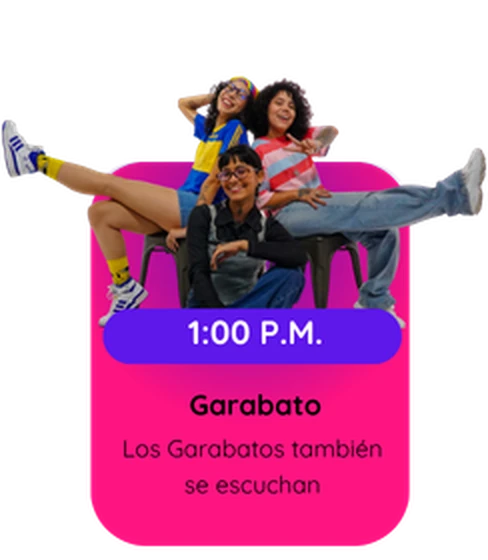
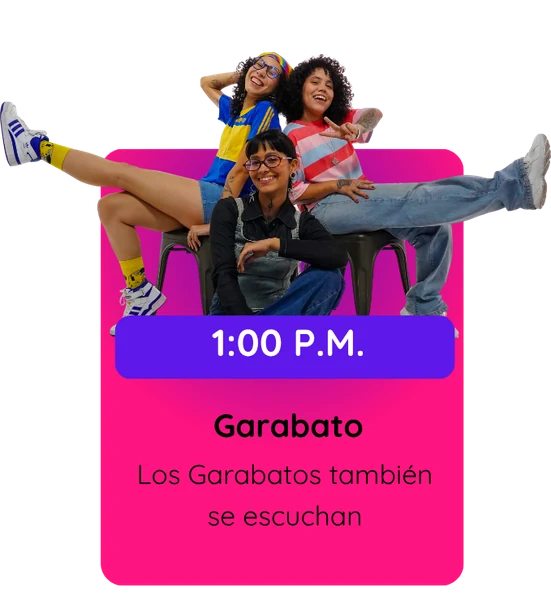
Web: oradores con la imagen más nítida y su separación original; charlas y asistencia debajo de la tienda
Claude-Session: https://claude.ai/code/session_018Ub7mahe51HV8HNSffgSRf

Changed region(s): [[0.0, 0.0911, 1.0, 1.0], [0.3689, 0.85, 0.6762, 0.8804]]

diff --git a/index.html b/index.html
@@ -17,7 +17,7 @@
 <link rel="icon" type="image/png" href="assets/img/logo-rcf-64.png">
 <link rel="preload" href="assets/fonts/quicksand.woff" as="font" type="font/woff" crossorigin>
 <link rel="preload" href="assets/fonts/poppins-700.woff" as="font" type="font/woff" crossorigin>
-<link rel="stylesheet" href="assets/css/rcf.css?v=20261111a">
+<link rel="stylesheet" href="assets/css/rcf.css?v=20261111b">
 </head>
 <body>
 <a class="skip" href="#main">Saltar al contenido</a>
@@ -78,6 +78,45 @@
 </div></section>
 <section class="sec reto-sec" aria-label="Reto de la semana" data-solo-post hidden><div class="wrap"><div class="reto-ya" data-reto-web hidden></div></div></section>
 <section class="sec" aria-label="Tienda" data-hasta="2026-12-06T00:00:00-04:00"><div class="wrap"><div class="pgrid" data-products></div></div></section>
+<section class="sec charlas" id="charlas" data-hasta="2026-12-06T00:00:00-04:00"><div class="wrap">
+  <span class="pill p-yellow">5 de diciembre · Auditorio naranja de FACES-UCV</span>
+  <h2>Charlas con propósito</h2>
+  <p class="lead">La intención de nuestras charlas es unir fuerzas en apoyo a nuestra comunidad universitaria y promover el talento&nbsp;creativo.</p>
+  <div class="ch-or">
+    <img class="ch-all" src="assets/img/charlas-oradores.webp" width="1500" height="616" loading="lazy" alt="">
+    <a style="--l:0%;--w:24.9%" href="https://www.instagram.com/hamktrazos/" target="_blank" rel="noopener" aria-label="HamkTrazos: «Vida en trazos», 11:00 a. m. Abre su Instagram en otra pestaña"><img src="assets/img/charla-hamktrazos.webp?v=2" width="363" height="600" loading="lazy" alt="HamkTrazos, 11:00 a. m.: Vida en trazos"><span>@hamktrazos</span></a>
+    <a style="--l:33.4%;--w:24.9%" href="https://www.instagram.com/olivarescfc/" target="_blank" rel="noopener" aria-label="Oscar Olivares: «Cómo vivir del arte en Venezuela», 12:00 p. m. Abre su Instagram en otra pestaña"><img src="assets/img/charla-olivares.webp?v=2" width="363" height="600" loading="lazy" alt="Oscar Olivares, 12:00 p. m.: Cómo vivir del arte en Venezuela"><span>@olivarescfc</span></a>
+    <a style="--l:62.3%;--w:37.7%" href="https://www.instagram.com/garabatoenvivo/" target="_blank" rel="noopener" aria-label="Garabato: «Los Garabatos también se escuchan», 1:00 p. m. Abre su Instagram en otra pestaña"><img src="assets/img/charla-garabato.webp?v=2" width="551" height="600" loading="lazy" alt="Garabato, 1:00 p. m.: Los Garabatos también se escuchan"><span>@garabatoenvivo</span></a>
+  </div>
+  <h3>Productos aceptados</h3>
+  <div class="ch-prod">
+    <div><img src="assets/img/charlas-insumos.webp" width="859" height="240" loading="lazy" alt="Juguetes, alimentos no perecederos y productos de higiene personal"><b>Insumos de primera necesidad</b><p>Para el Centro de Acopio&nbsp;UCV.</p></div>
+    <div><img src="assets/img/charlas-arte.webp" width="859" height="197" loading="lazy" alt="Marcadores, blocs, lápices, pinturas, pinceles, pega, cinta, cartulinas y tijeras"><b>Material de arte</b><p>Todo el material de arte recolectado se utilizará para seguir impulsando nuestros eventos&nbsp;creativos.</p></div>
+  </div>
+  <p class="ch-nota"><b>Donación individual</b> (únicamente productos&nbsp;nuevos).<br>Los menores de 12 años no requieren presentar&nbsp;donación.</p>
+</div></section>
+<section class="sec" id="asistencia" data-hasta="2026-12-06T00:00:00-04:00" style="background:var(--yellowsoft,#FFF6CC);border-top:3px solid var(--ink)"><div class="wrap lead-wrap">
+  <div class="txt"><span class="pill p-ink">Entrada gratuita</span><h2>Confirma tu asistencia</h2>
+    <p class="lead">El festival es libre y no necesitas registrarte para entrar. Si nos dices que vienes, nos ayudas a preparar el espacio para todos. Te toma 30&nbsp;segundos.</p>
+    <p class="lead" style="font-size:15px"><b>Sábado 5 de diciembre</b>, de 10:00 a. m. a 4:00&nbsp;p.&nbsp;m.<br>FACES-UCV, Caracas</p></div>
+  <form class="lform card" data-form="asistencia" novalidate>
+    <label class="fl" for="as-nombre">Tu nombre<input id="as-nombre" name="nombre" type="text" autocomplete="name" maxlength="80" placeholder="Nombre y apellido" required></label>
+    <label class="fl" for="as-correo">Tu correo<input id="as-correo" name="correo" type="email" autocomplete="email" placeholder="tucorreo@gmail.com" required></label>
+    <label class="fl" for="as-personas">¿Cuántas personas vienen, contándote?<select id="as-personas" name="personas" required><option value="1">Solo yo</option><option value="2">2</option><option value="3">3</option><option value="4">4</option><option value="5">5 o más</option></select></label>
+    <fieldset class="chips-in"><legend>¿A qué vienes? (puedes marcar varias)</legend>
+      <label><input type="checkbox" name="vienes" value="Concurso"> Concurso</label><label><input type="checkbox" name="vienes" value="Bazar"> Bazar</label><label><input type="checkbox" name="vienes" value="Charlas"> Charlas</label><label><input type="checkbox" data-todas="vienes"> Todas las anteriores</label></fieldset>
+    <fieldset class="chips-in"><legend>¿Viene alguien menor de 18 años?</legend>
+      <label><input type="radio" name="menores" value="No" checked> No</label><label><input type="radio" name="menores" value="Sí"> Sí</label></fieldset>
+    <label class="fl" for="as-enterado">¿Cómo te enteraste?<select id="as-enterado" name="enterado" required><option value="">Elige una opción</option><option>Instagram</option><option>TikTok</option><option>Canal de WhatsApp</option><option>Un amigo o familiar</option><option>Un patrocinante</option><option>Otro</option></select></label>
+    <label class="check"><input type="checkbox" name="avisos" value="Sí"> <span>Quiero que me avisen del próximo Reto Creativo Fest.</span></label>
+    <label class="check"><input type="checkbox" name="consentimiento" value="Sí" required> <span>Acepto que guarden estos datos para organizar el festival. Si soy menor de 18 años, tengo el permiso de mi representante. <a href="privacidad.html">Privacidad</a></span></label>
+    <input class="hp" type="text" name="website" tabindex="-1" autocomplete="off" aria-hidden="true">
+    <p class="ferr" role="alert" hidden></p>
+    <button class="btn b-ink y" type="submit">Voy a ir</button>
+    <div class="fok" role="status" hidden><p style="margin:0 0 10px"><b>¡Te esperamos el sábado 5 de diciembre!</b> Si cambia algo, te escribimos.</p>
+      <div class="ctas"><a class="btn b-ink" href="https://calendar.google.com/calendar/render?action=TEMPLATE&amp;text=Reto%20Creativo%20Fest%202026&amp;dates=20261205T140000Z%2F20261205T200000Z&amp;location=FACES-UCV%2C%20Caracas&amp;details=Festival%20de%20ilustraci%C3%B3n%2C%20entrada%20gratuita.%20retocreativofest.com" target="_blank" rel="noopener">Agregar a mi calendario</a><a class="btn b-cyan" style="background:var(--cyansoft);border-color:var(--ink)" data-link="canal" href="#">Unirme al canal</a></div></div>
+  </form>
+</div></section>
 <section class="sec canal-sec" aria-labelledby="canal-h" data-desde="2026-12-06T00:00:00-04:00" hidden><div class="wrap canal-card">
   <div class="txt"><span class="pill p-white">Canal de WhatsApp</span><h2 id="canal-h">Entérate primero de todo</h2>
     <p class="lead">El reto de cada semana, los ganadores, las fechas del próximo Reto Creativo Fest y los descuentos de nuestras marcas aliadas llegan primero al canal. Es gratis y nadie ve tu número.</p>
@@ -121,44 +160,6 @@
     <div><svg viewBox="0 0 100 100" aria-hidden="true"><path d="M50 4 C54 34 66 46 96 50 C66 54 54 66 50 96 C46 66 34 54 4 50 C34 46 46 34 50 4Z" fill="#F0479B" stroke="#0B0B0F" stroke-width="6" stroke-linejoin="round"/></svg><h3>Premiación</h3><p>A las 3:00 p.m: ganadores del concurso y del #RetoMenteMilenial.</p></div>
   </div>
   <div class="sched-wrap" role="region" aria-label="Programa del sábado 5 de diciembre" tabindex="0"><div class="sched"><span></span><div class="hd"><b>Auditorio naranja</b>Charlas y premiación</div><div class="hd"><b>Sótano de FACES</b>Concurso de dibujo</div><div class="hd"><b>Planta baja de FACES</b>Bazar y premiación secundaria</div><div class="cell c-time">9:00 a.m<br>9:50 a.m</div><div class="cell c-off"><span><b>Solo participantes</b><small>El público entra desde las 10:00 a.m</small></span></div><div class="cell c-p"><span><b>Check-in</b>Participantes del concurso</span></div><div class="cell c-off"><span><b>Montaje del bazar</b><small>Abre a las 10:00 a.m</small></span></div><div class="cell c-time">10:00 a.m<br>10:45 a.m</div><div class="cell c-y"><span><b>Bienvenida</b><small>Apertura de puertas al público</small></span></div><div class="cell c-p"><span><b>Primer lote</b>12 personas</span></div><div class="cell c-c" style="grid-column:4;grid-row:3 / span 5"><span><b>Bazar de emprendimientos y Ruta Creativa</b></span></div><div class="cell c-time">11:00 a.m<br>11:45 a.m</div><div class="cell c-y"><span><b>Primera Charla</b>@hamktrazos</span></div><div class="cell c-p"><span><b>Segundo lote</b>12 personas</span></div><div class="cell c-time">12:00 p.m<br>12:45 p.m</div><div class="cell c-y"><span><b>Segunda Charla</b>@olivarescfc</span></div><div class="cell c-p"><span><b>Tercer lote</b>12 personas</span></div><div class="cell c-time">1:00 p.m<br>1:45 p.m</div><div class="cell c-y"><span><b>Tercera Charla</b>@garabatoenvivo</span></div><div class="cell c-p" style="grid-column:3;grid-row:6 / span 2"><span><b>Deliberación del jurado</b><small>1:00 p.m a 2:50 p.m</small></span></div><div class="cell c-time">2:00 p.m<br>2:50 p.m</div><div class="cell c-y" style="grid-column:2"><span><b>Descanso</b></span></div><div class="cell c-time">3:00 p.m<br>3:45 p.m</div><div class="cell c-y"><span><b>Premiación principal</b><small>#RetoMenteMilenial<br>(3:00 p.m)</small></span></div><div class="cell c-p"><span><b>Premiación en el auditorio</b></span></div><div class="cell c-c"><span><b>Premiación secundaria</b><small>(3:40 p.m)</small></span></div><div class="cell c-time" style="min-height:56px">4:00 p.m</div><div class="cell c-h" style="grid-column:2 / span 3;min-height:56px">CIERRE DEL EVENTO</div></div></div>
-</div></section>
-<section class="sec charlas" id="charlas" data-hasta="2026-12-06T00:00:00-04:00"><div class="wrap">
-  <span class="pill p-yellow">5 de diciembre · Auditorio naranja de FACES-UCV</span>
-  <h2>Charlas con propósito</h2>
-  <p class="lead">La intención de nuestras charlas es unir fuerzas en apoyo a nuestra comunidad universitaria y promover el talento&nbsp;creativo.</p>
-  <div class="ch-or">
-    <a style="--w:161" href="https://www.instagram.com/hamktrazos/" target="_blank" rel="noopener" aria-label="HamkTrazos: «Vida en trazos», 11:00 a. m. Abre su Instagram en otra pestaña"><img src="assets/img/charla-hamktrazos.webp" width="322" height="560" loading="lazy" alt="HamkTrazos, 11:00 a. m.: Vida en trazos"><span>@hamktrazos</span></a>
-    <a style="--w:162" href="https://www.instagram.com/olivarescfc/" target="_blank" rel="noopener" aria-label="Oscar Olivares: «Cómo vivir del arte en Venezuela», 12:00 p. m. Abre su Instagram en otra pestaña"><img src="assets/img/charla-olivares.webp" width="324" height="560" loading="lazy" alt="Oscar Olivares, 12:00 p. m.: Cómo vivir del arte en Venezuela"><span>@olivarescfc</span></a>
-    <a style="--w:244" href="https://www.instagram.com/garabatoenvivo/" target="_blank" rel="noopener" aria-label="Garabato: «Los Garabatos también se escuchan», 1:00 p. m. Abre su Instagram en otra pestaña"><img src="assets/img/charla-garabato.webp" width="488" height="560" loading="lazy" alt="Garabato, 1:00 p. m.: Los Garabatos también se escuchan"><span>@garabatoenvivo</span></a>
-  </div>
-  <h3>Productos aceptados</h3>
-  <div class="ch-prod">
-    <div><img src="assets/img/charlas-insumos.webp" width="859" height="240" loading="lazy" alt="Juguetes, alimentos no perecederos y productos de higiene personal"><b>Insumos de primera necesidad</b><p>Para el Centro de Acopio&nbsp;UCV.</p></div>
-    <div><img src="assets/img/charlas-arte.webp" width="859" height="197" loading="lazy" alt="Marcadores, blocs, lápices, pinturas, pinceles, pega, cinta, cartulinas y tijeras"><b>Material de arte</b><p>Todo el material de arte recolectado se utilizará para seguir impulsando nuestros eventos&nbsp;creativos.</p></div>
-  </div>
-  <p class="ch-nota"><b>Donación individual</b> (únicamente productos&nbsp;nuevos).<br>Los menores de 12 años no requieren presentar&nbsp;donación.</p>
-</div></section>
-<section class="sec" id="asistencia" data-hasta="2026-12-06T00:00:00-04:00" style="background:var(--yellowsoft,#FFF6CC);border-top:3px solid var(--ink)"><div class="wrap lead-wrap">
-  <div class="txt"><span class="pill p-ink">Entrada gratuita</span><h2>Confirma tu asistencia</h2>
-    <p class="lead">El festival es libre y no necesitas registrarte para entrar. Si nos dices que vienes, nos ayudas a preparar el espacio para todos. Te toma 30&nbsp;segundos.</p>
-    <p class="lead" style="font-size:15px"><b>Sábado 5 de diciembre</b>, de 10:00 a. m. a 4:00&nbsp;p.&nbsp;m.<br>FACES-UCV, Caracas</p></div>
-  <form class="lform card" data-form="asistencia" novalidate>
-    <label class="fl" for="as-nombre">Tu nombre<input id="as-nombre" name="nombre" type="text" autocomplete="name" maxlength="80" placeholder="Nombre y apellido" required></label>
-    <label class="fl" for="as-correo">Tu correo<input id="as-correo" name="correo" type="email" autocomplete="email" placeholder="tucorreo@gmail.com" required></label>
-    <label class="fl" for="as-personas">¿Cuántas personas vienen, contándote?<select id="as-personas" name="personas" required><option value="1">Solo yo</option><option value="2">2</option><option value="3">3</option><option value="4">4</option><option value="5">5 o más</option></select></label>
-    <fieldset class="chips-in"><legend>¿A qué vienes? (puedes marcar varias)</legend>
-      <label><input type="checkbox" name="vienes" value="Concurso"> Concurso</label><label><input type="checkbox" name="vienes" value="Bazar"> Bazar</label><label><input type="checkbox" name="vienes" value="Charlas"> Charlas</label><label><input type="checkbox" data-todas="vienes"> Todas las anteriores</label></fieldset>
-    <fieldset class="chips-in"><legend>¿Viene alguien menor de 18 años?</legend>
-      <label><input type="radio" name="menores" value="No" checked> No</label><label><input type="radio" name="menores" value="Sí"> Sí</label></fieldset>
-    <label class="fl" for="as-enterado">¿Cómo te enteraste?<select id="as-enterado" name="enterado" required><option value="">Elige una opción</option><option>Instagram</option><option>TikTok</option><option>Canal de WhatsApp</option><option>Un amigo o familiar</option><option>Un patrocinante</option><option>Otro</option></select></label>
-    <label class="check"><input type="checkbox" name="avisos" value="Sí"> <span>Quiero que me avisen del próximo Reto Creativo Fest.</span></label>
-    <label class="check"><input type="checkbox" name="consentimiento" value="Sí" required> <span>Acepto que guarden estos datos para organizar el festival. Si soy menor de 18 años, tengo el permiso de mi representante. <a href="privacidad.html">Privacidad</a></span></label>
-    <input class="hp" type="text" name="website" tabindex="-1" autocomplete="off" aria-hidden="true">
-    <p class="ferr" role="alert" hidden></p>
-    <button class="btn b-ink y" type="submit">Voy a ir</button>
-    <div class="fok" role="status" hidden><p style="margin:0 0 10px"><b>¡Te esperamos el sábado 5 de diciembre!</b> Si cambia algo, te escribimos.</p>
-      <div class="ctas"><a class="btn b-ink" href="https://calendar.google.com/calendar/render?action=TEMPLATE&amp;text=Reto%20Creativo%20Fest%202026&amp;dates=20261205T140000Z%2F20261205T200000Z&amp;location=FACES-UCV%2C%20Caracas&amp;details=Festival%20de%20ilustraci%C3%B3n%2C%20entrada%20gratuita.%20retocreativofest.com" target="_blank" rel="noopener">Agregar a mi calendario</a><a class="btn b-cyan" style="background:var(--cyansoft);border-color:var(--ink)" data-link="canal" href="#">Unirme al canal</a></div></div>
-  </form>
 </div></section>
 <section class="sec patro" id="patrocinantes" aria-labelledby="patro-h" data-hasta="2026-12-06T00:00:00-04:00"><div class="wrap">
   <h2 class="h-sec" id="patro-h"><span data-hasta="2026-12-06T00:00:00-04:00">Patrocinantes de esta edición</span><span data-desde="2026-12-06T00:00:00-04:00" hidden>Gracias a los patrocinantes de la 4.ª edición</span></h2>

diff --git a/assets/css/rcf.css b/assets/css/rcf.css
@@ -652,11 +652,13 @@ html,body{overflow-x:clip}
 .charlas h2{color:var(--yellow);font-size:clamp(32px,4.4vw,54px);margin:0}
 .charlas h3{color:var(--yellow);font-size:clamp(24px,3vw,34px);margin:18px 0 0}
 .charlas .lead{max-width:640px;margin:0;text-wrap:balance}
-.ch-or{display:flex;justify-content:center;align-items:flex-start;gap:clamp(12px,3vw,36px);width:100%;max-width:820px}
-.ch-or a{flex:var(--w) 1 0;min-width:0;display:grid;gap:10px;justify-items:center;color:var(--white);text-decoration:none;font-weight:700;font-size:15px;transition:transform .15s}
-.ch-or a:hover,.ch-or a:focus-visible{transform:translateY(-4px)}
+.ch-or{position:relative;width:100%;max-width:900px;margin-bottom:34px}
+.ch-or .ch-all{width:100%;height:auto;display:block}
+.ch-or a{position:absolute;top:0;height:100%;left:var(--l);width:var(--w);color:var(--white);text-decoration:none;font-weight:700;font-size:15px}
+.ch-or a img{display:none}
+.ch-or a span{position:absolute;top:100%;left:0;right:0;padding-top:10px;text-align:center}
+.ch-or a:nth-of-type(3) span{left:2%}
 .ch-or a:hover span,.ch-or a:focus-visible span{color:var(--yellow);text-decoration:underline}
-.ch-or img{width:100%;height:auto;display:block}
 .ch-prod{display:grid;grid-template-columns:repeat(2,minmax(0,1fr));gap:20px;width:100%;max-width:900px}
 .ch-prod div{border:2px solid rgba(255,255,255,.25);border-radius:var(--r);padding:22px 20px;display:grid;gap:8px;justify-items:center;align-content:start}
 .ch-prod img{width:100%;max-width:380px;height:auto;margin-bottom:6px}
@@ -664,9 +666,10 @@ html,body{overflow-x:clip}
 .ch-prod p{margin:0;font-size:15px;max-width:340px;text-wrap:balance}
 .ch-nota{margin:0;background:var(--white);color:var(--ink);border-radius:var(--r);padding:16px 24px;max-width:560px;font-size:16px;text-wrap:balance}
 @media (max-width:640px){
-  .ch-or{flex-direction:column;align-items:center;gap:26px}
-  .ch-or a{flex:none}
-  .ch-or img{height:300px;width:auto}
+  .ch-or{display:grid;justify-items:center;gap:26px;margin-bottom:0}
+  .ch-or .ch-all{display:none}
+  .ch-or a{position:static;width:auto;height:auto;display:grid;gap:10px;justify-items:center}
+  .ch-or a img{display:block;height:300px;width:auto}
+  .ch-or a span,.ch-or a:nth-of-type(3) span{position:static;padding:0}
   .ch-prod{grid-template-columns:minmax(0,1fr)}
 }
-@media (prefers-reduced-motion:reduce){.ch-or a{transition:none}}
